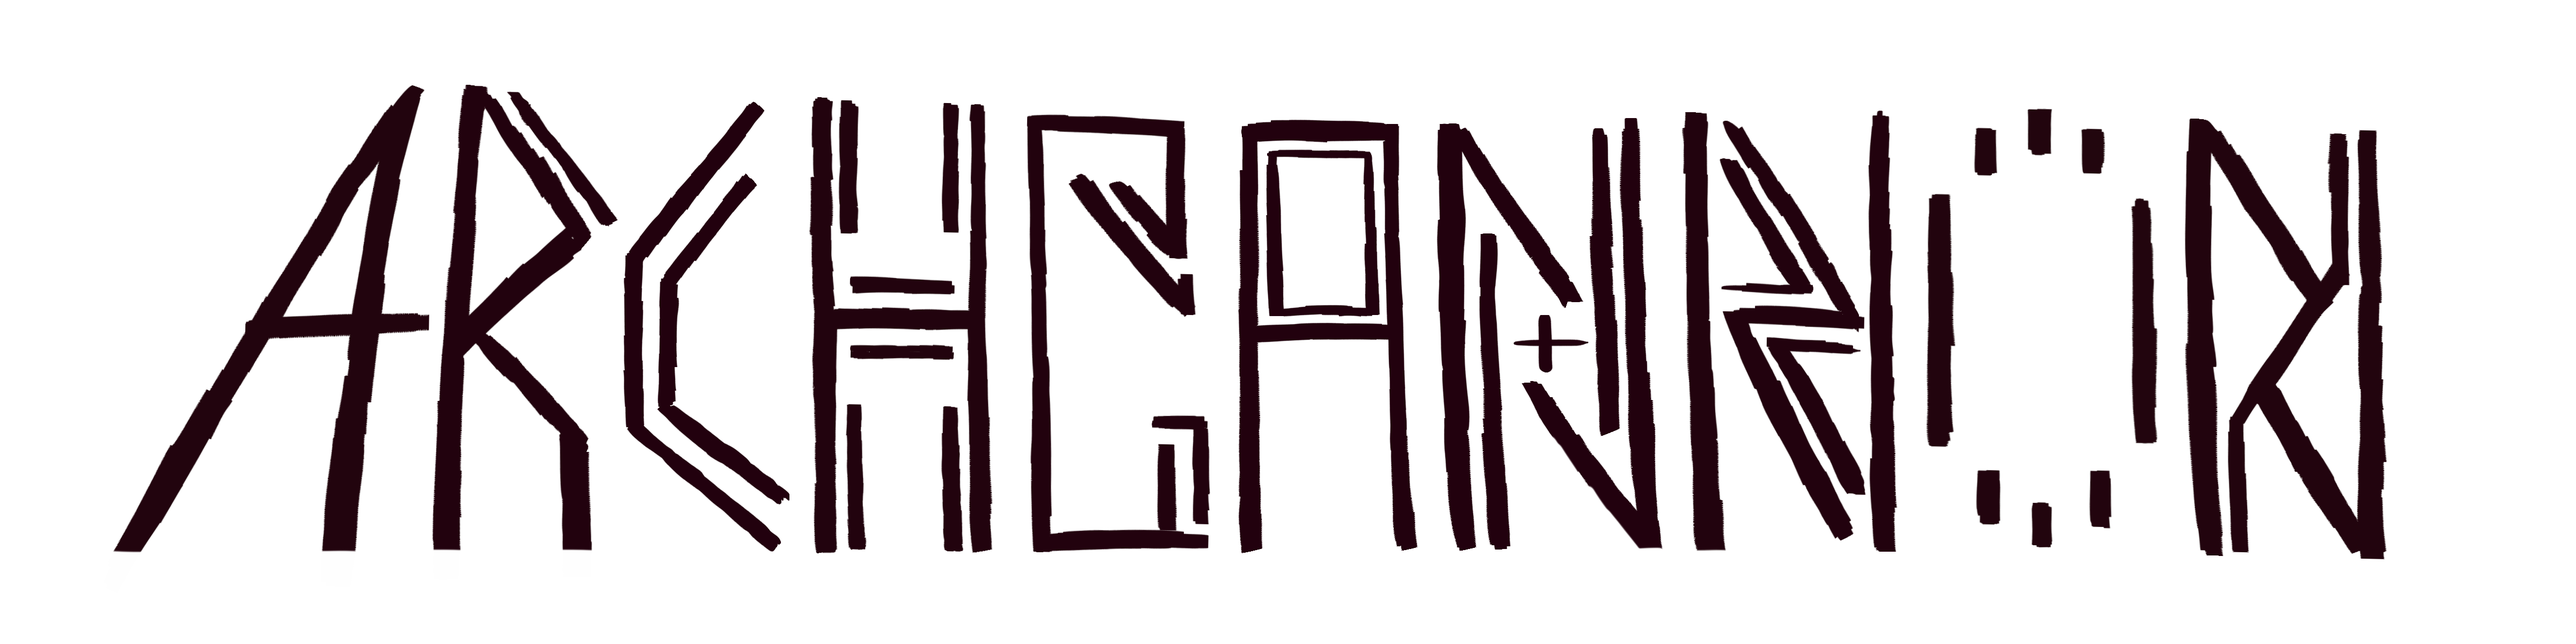
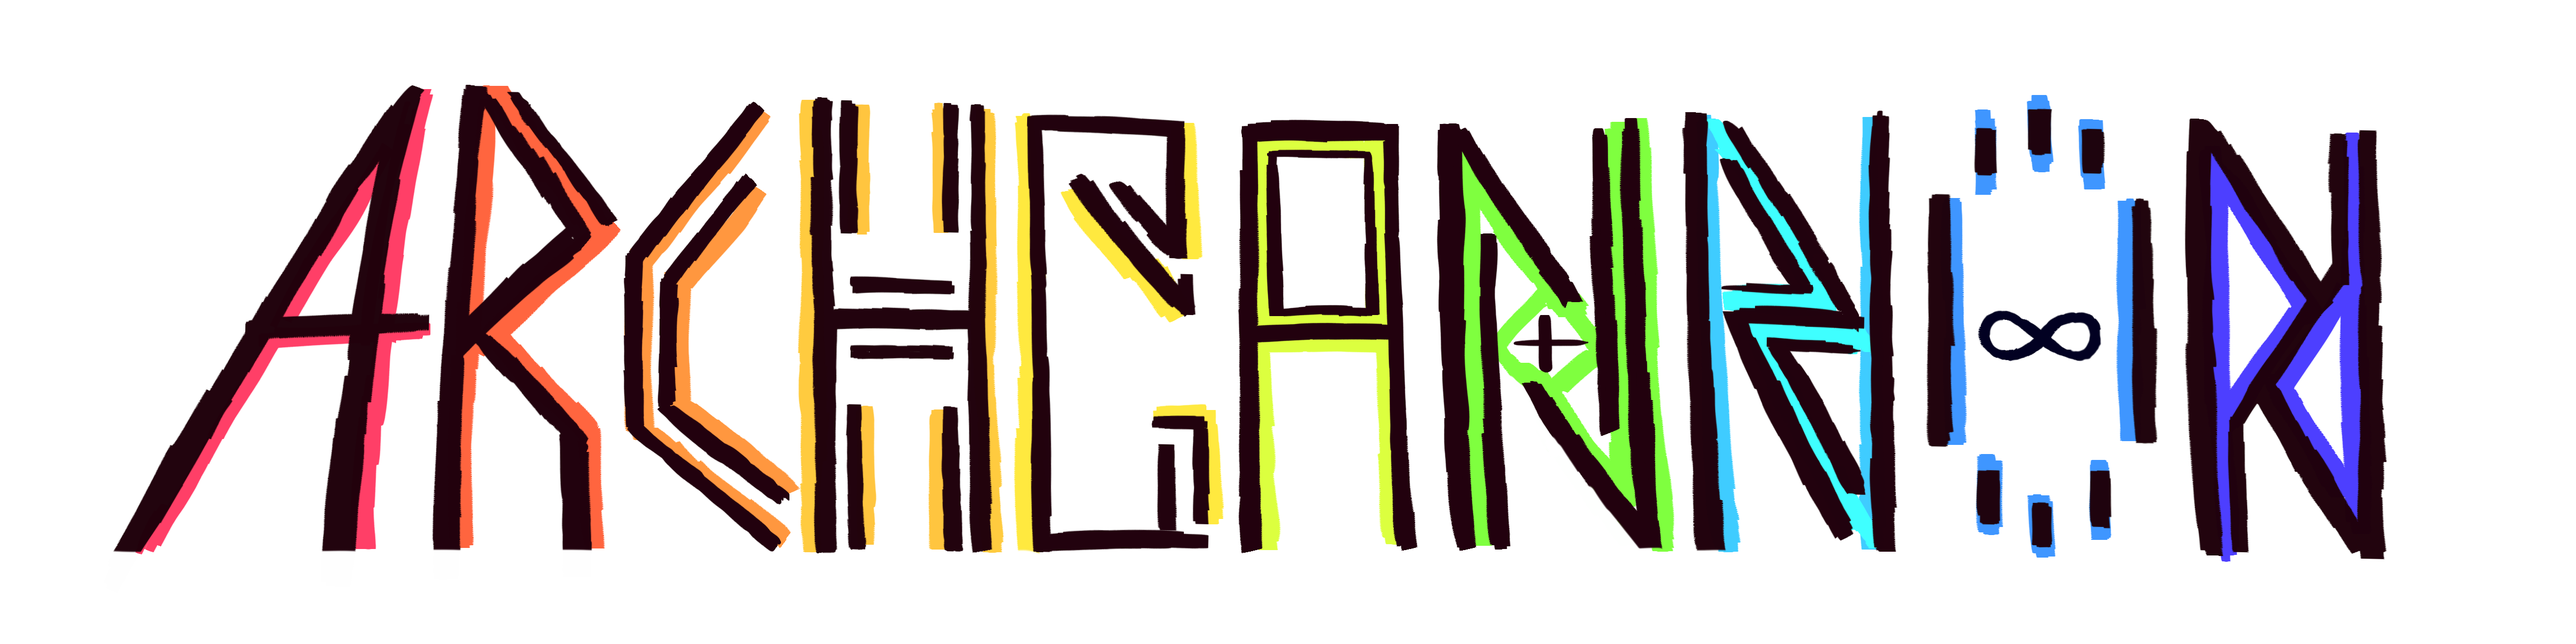
redesign

Changed region(s): [[0.0938, 0.1233, 0.9375, 0.8633], [0.0625, 0.6167, 0.0938, 0.8325], [0.0312, 0.8325, 0.0625, 0.8633]]

diff --git a/programming.html b/programming.html
@@ -9,10 +9,10 @@
 
         <div class="fadein">
             <hr class="bar" />
-            <div style="background-color:lightgray;">
+            <div style="background-color:hsl(204, 100%, 90%);;">
                 <h1 id="title">Programming</h1>
             </div>
-            <div style=" background-color: rgb(225, 225, 225);">
+            <div style=" background-color: hsl(204, 100%, 80%);">
                 <hr class="bar" />
 
 
@@ -32,6 +32,30 @@
                         <li>Python</li>
                     </ul>
 
+                    
+                    <a href="https://github.com/INeedAUniqueUsername/Super-Nostalgia-Entertainment-Syndrome">
+                        <h1>Super Nostalgia Entertainment Syndrome</h1>
+                    </a>
+                    <ul>
+                        <li>Endless survival space combat game</li>
+                    </ul>
+
+                    <a href="https://github.com/INeedAUniqueUsername/Nostalgia-64">
+                        <h1>Nostalgia 64</h1>
+                    </a>
+                    <ul>
+                        <li>Sequel to S-N-E-S</li>
+                        <li>Physics-based combat</li>
+                        <li>Destructible devices</li>
+                        <li>Made with Unity</li>
+                        <li>Unfinished</li>
+                    </ul>
+
+                    <h1>UCRPC 2017</h1>
+                    <ul>
+                        <li>2nd place winner</li>
+                        <li>The questions were easy lol</li>
+                    </ul>
 
                     <a href="https://github.com/3TUSK/LC-Sharp">
                         <h1>LC-Sharp</h1>

diff --git a/digital.html b/digital.html
@@ -8,16 +8,17 @@
         <a href="index.html"><img id="logo" src="Archcannon.png" /></a>
         <div class="fadein">
             <hr class="bar" />
-            <div style="background-color:lightgray;">
+            <div style="background-color:hsl(204, 100%, 90%);">
                 <h1 id="title">Digital Art</h1>
             </div>
-            <div style=" background-color: rgb(225, 225, 225);">
+            <div style=" background-color: hsl(204, 100%, 80%)">
                 <hr class="bar" />
                 <p id="itemsDesc">
-                    I started practicing digital painting in 2018.
+                    I've been drawing since 2018.
                 </p>
                 <div id="items">
                     <h1>2020</h1>
+                    <!--
                     <div>
                         <h2>Dragons</h2>
                         <img src="digital/Dragonlines.png" />
@@ -38,6 +39,7 @@
                         <h2>Vanity</h2>
                         <img src="digital/Vanity.png" />
                     </div>
+                -->
                     <div>
                         <h2>[Archtober] Fantasy</h2>
                         <img src="digital/Fantasy.png" />
@@ -81,8 +83,10 @@
                     <div>
                         <h2>Afterlife</h2>
                         <img src="digital/Afterlife.png" />
+                    <!--
                         <p>Abstract art</p>
                         <p>Also known as "Spirits Waiting in Line to be Reincarnated"</p>
+                    -->
                     </div>
                     <div>
                         <h2>Dawn</h2>

diff --git a/index.html b/index.html
@@ -4,11 +4,24 @@
     <link rel="stylesheet" href="archcannon.css" />
     <style>
 
+
+
+@keyframes raindark {
+    
+    0% { background-color: hsl(180, 50%, 80%); }
+    20% { background-color: hsl(240, 50%, 80%); }
+    40% { background-color: hsl(300, 50%, 80%); }
+    60% { background-color: hsl(360, 50%, 80%); }
+    80% { background-color: hsl(0, 50%, 80%); }
+    100% { background-color: hsl(60, 50%, 80%); }
+}
+
         #logo {
-            animation-name: fadein;
-            animation-duration: 0.8s;
-            animation-timing-function: ease-in;
-            animation-fill-mode: both;
+            animation: fadein 0.8s ease-in both, rainlight 60s ease-in-out both infinite;
+        }
+
+        body {
+            animation: raindark 60s ease-in-out both infinite;
         }
 
         #nav {
@@ -71,8 +84,10 @@
                 <a href="3d.html"><li>- 3D Art</li></a>
                 <a href="digital.html"><li>- Digital Art</li></a>
                 <a href="traditional.html"><li>- Traditional Art</li></a>
+                <!--
                 <a href="music.html"><li>- Music</li></a>
                 <a href="literature.html"><li>- Literature</li></a>
+                -->
                 <a href="websites.html"><li>- Websites</li></a>
             </ul>
         </div>

diff --git a/archcannon.css b/archcannon.css
@@ -7,13 +7,32 @@
     font-family: 'IBM Plex Mono';
 }
 
+
+
+@keyframes rainlight {
+    
+    00% { background-color: hsl(180, 100%, 90%); }
+    20% { background-color: hsl(240, 100%, 90%); }
+    40% { background-color: hsl(300, 100%, 90%); }
+    60% { background-color: hsl(360, 100%, 90%); }
+    80% { background-color: hsl(0, 100%, 90%); }
+    100% { background-color: hsl(60, 100%, 90%); }
+}
+
+#front, body {
+    margin:0px 0px 0px 0px;
+}
+
 #logo {
     display: block;
-	width: 90%;
-    margin-left: auto;
-    margin-right:auto;
+	
+    width:90%;
+    padding-left: 5%;
+    padding-right:5%;
     margin-top: 0px;
     margin-bottom:0px;
+
+    animation: rainlight 60s ease-in-out both infinite;
 }
 
 
@@ -21,8 +40,7 @@
     height: 4px;
     margin: 0px 0px 0px 0px;
     border: none;
-    background-color: darkgray;
-    color: darkgray;
+    background-color: hsl(192, 60%, 50%);
 }
 
 #title {
@@ -56,7 +74,6 @@ h2 {
     margin-left: 128px;
     margin-right:256px;
     font-size: 32px;
-    background-color: rgb(225, 225, 225);
 }
 
 .fadein {
@@ -74,7 +91,6 @@ h2 {
     align-items: center;
     justify-items: center;
     text-align: center;
-    background-color: rgb(225, 225, 225);
 
 
 }

diff --git a/websites.html b/websites.html
@@ -9,10 +9,10 @@
 
         <div class="fadein">
             <hr class="bar" />
-            <div style="background-color:lightgray;">
+            <div style="background-color:hsl(204, 100%, 90%);;">
                 <h1 id="title">Websites</h1>
             </div>
-            <div style=" background-color: rgb(225, 225, 225);">
+            <div style=" background-color: hsl(204, 100%, 80%);">
                 <hr class="bar" />
                 <div id="content">
                     <p>
@@ -38,7 +38,7 @@
 
                     
                     <h1><a href="https://ucrpc.net">
-                        ucrpc.net (2021)
+                        ucrpc.net
                     </a></h1>
                     <ul>
                         <li>Website for UCRPC 2021</li>
@@ -60,7 +60,7 @@
                         <li>Web slides for IEEE@UCR workshops</li>
                     </ul>
 
-                    <h1><a href="strawberry-piano.tech">
+                    <h1><a href="http://strawberry-piano.tech">
                         Piano Radio
                     </a></h1>
                     <ul>

diff --git a/music.html b/music.html
@@ -8,10 +8,10 @@
         <a href="index.html"><img id="logo" src="Archcannon.png" /></a>
         <div class="fadein">
             <hr class="bar" />
-            <div style="background-color:lightgray;">
+            <div style="background-color:hsl(204, 100%, 90%);;">
                 <h1 id="title">Music</h1>
             </div>
-            <div style=" background-color: rgb(225, 225, 225);">
+            <div style=" background-color: hsl(204, 100%, 80%);">
                 <hr class="bar" />
                 <p id="itemsDesc">
                     Obligatory music page! How do you do, fellow musicians? I've been playing piano for 10 years, though it's not until after I turned 22 and put off lessons for 3 years that I started enjoying piano.

diff --git a/literature.html b/literature.html
@@ -9,10 +9,10 @@
         <a href="index.html"><img id="logo" src="Archcannon.png" /></a>
         <div class="fadein">
             <hr class="bar" />
-            <div style="background-color:lightgray;">
+            <div style="background-color:hsl(204, 100%, 90%);;">
                 <h1 id="title">Literature</h1>
             </div>
-            <div style=" background-color: rgb(225, 225, 225);">
+            <div style=" background-color: hsl(204, 100%, 80%);">
                 <hr class="bar" />
                 <p id="itemsDesc">
                     Sometimes I write. Most of the time I come up with a title plus a vague story idea, and I draw cover art for it.

diff --git a/traditional.html b/traditional.html
@@ -8,12 +8,12 @@
         <a href="index.html"><img id="logo" src="Archcannon.png" /></a>
         <div class="fadein">
             <hr class="bar" />
-            <div style="background-color:lightgray;">
+            <div style="background-color:hsl(204, 100%, 90%);;">
                 <h1 id="title">Traditional Art</h1>
             </div>
 
 
-            <div style=" background-color: rgb(225, 225, 225);">
+            <div style=" background-color: hsl(204, 100%, 80%);">
 
                 <hr class="bar" />
                 <p id="itemsDesc">
